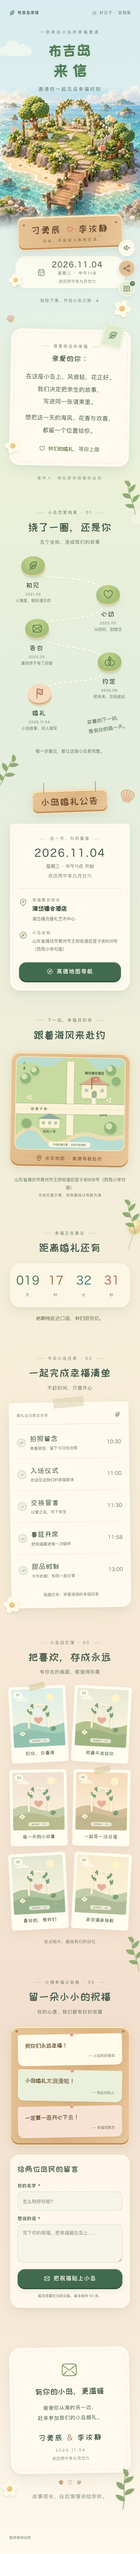
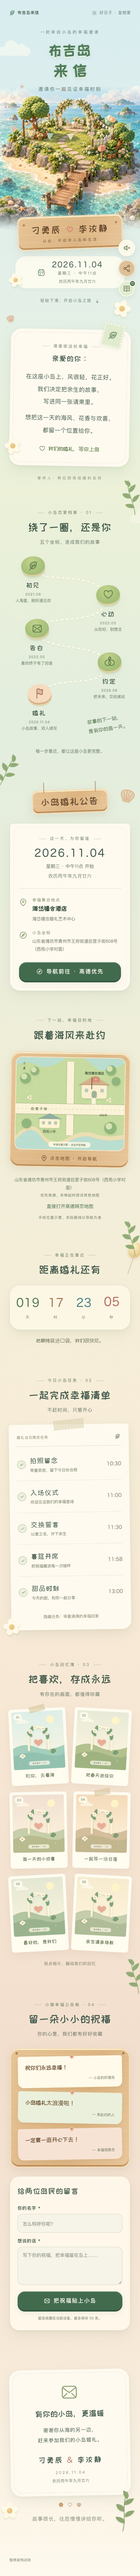
fix: fall back to other map apps before AMap web

diff --git a/index.html b/index.html
@@ -2684,7 +2684,7 @@
             >
               <svg class="icon mini" aria-hidden="true">
                 <use href="#i-compass" /></svg
-              >高德地图导航</a
+              >导航前往 · 高德优先</a
             >
           </div>
         </div>
@@ -2707,7 +2707,7 @@
           class="map-frame wood press reveal"
           data-navigate
           href="https://uri.amap.com/marker?position=118.457025,36.694075&amp;name=%E6%B5%B7%E5%B2%B1%E7%A6%A7%E5%90%88%E9%85%92%E5%BA%97&amp;coordinate=gaode&amp;callnative=1"
-          aria-label="使用高德地图导航至海岱禧合酒店"
+          aria-label="导航至海岱禧合酒店，优先高德，未唤起时尝试其他地图"
         >
           <img
             id="location-map"
@@ -2718,12 +2718,19 @@
           /><span class="map-caption"
             ><svg class="icon mini" aria-hidden="true">
               <use href="#i-pin" /></svg
-            >点击地图 · 高德导航赴约</span
+            >点击地图 · 开启导航</span
           >
         </a>
         <p class="location-address" data-bind="address">
           山东省潍坊市青州市王府街道后营子街808号（西苑小学对面）
         </p>
+        <p class="location-note">优先高德，未唤起时尝试其他地图</p>
+        <a
+          class="text-btn press"
+          data-web-map
+          href="https://uri.amap.com/marker?position=118.457025,36.694075&amp;coordinate=gaode&amp;callnative=0"
+          >直接打开高德网页地图</a
+        >
         <p class="location-note">手绘位置示意，实际路线以导航为准</p>
         <svg class="cross-sprig" aria-hidden="true">
           <use href="#i-sprig" />
@@ -3344,11 +3351,14 @@
           btn.addEventListener("click", () => openPhoto(i));
           $("#photo-grid").append(btn);
         });
-        // 高德直达：移动端点击即调用对应 App 协议；桌面仍打开高德网页地图。
-        // 本示例坐标为 GCJ-02，dev=0，不再显示地图选择器，也不提供地址复制入口。
+        // 导航优先级：高德 App → 其他地图 App → 高德网页；电脑直接使用高德网页。
+        // H5 无法查询任意 App 是否安装，以下根据唤起后的页面生命周期决定是否继续兜底。
         const { longitude: lng, latitude: lat } = CONFIG;
         const name = encodeURIComponent(CONFIG.venue);
         const addr = encodeURIComponent(CONFIG.address);
+        const destination = encodeURIComponent(
+          `${CONFIG.venue} ${CONFIG.address}`,
+        );
         const isiOS =
           /iPhone|iPad|iPod/i.test(navigator.userAgent) ||
           (navigator.maxTouchPoints > 1 &&
@@ -3356,6 +3366,20 @@
         const amapAppURL = `${isiOS ? "iosamap" : "androidamap"}://navi?sourceApplication=bujiWedding&poiname=${name}&lat=${lat}&lon=${lng}&dev=0&style=2`;
         const webMap = `https://uri.amap.com/marker?position=${lng},${lat}&name=${name}&content=${addr}&coordinate=gaode&callnative=0`;
         const webRoute = `https://uri.amap.com/navigation?to=${lng},${lat},${name}&mode=car&policy=1&src=buji_wedding&coordinate=gaode&callnative=0`;
+        // 安卓通过通用 geo 协议交给系统默认地图；多款 App 可处理时由系统选择。
+        // 使用地址搜索而非将 GCJ-02 坐标强塞给所有 App，避免不同地图坐标系造成偏移。
+        const systemGeoURL = `geo:0,0?q=${destination}`;
+        // iOS 没有通用的已安装地图查询能力，依次尝试系统地图及常见地图。
+        // 百度明确声明 GCJ-02，腾讯使用同一 GCJ-02 坐标；系统地图按完整地址导航。
+        const otherIOSMaps = [
+          `maps://?daddr=${destination}&dirflg=d`,
+          `baidumap://map/direction?origin=${encodeURIComponent("我的位置")}&destination=latlng:${lat},${lng}|name:${name}&coord_type=gcj02&mode=driving&src=webapp.buji_wedding`,
+          `qqmap://map/routeplan?type=drive&to=${name}&tocoord=${lat},${lng}&referer=bujiWedding`,
+        ];
+        const appCandidates = [
+          amapAppURL,
+          ...(isiOS ? otherIOSMaps : [systemGeoURL]),
+        ];
         let cancelNavigationFallback = () => {};
         $$("[data-navigate]").forEach((link) => {
           link.href = isMobile() ? amapAppURL : webMap;
@@ -3366,10 +3390,11 @@
           link.addEventListener("click", () => {
             if (!isMobile()) return;
             cancelNavigationFallback();
-            const startedAt = performance.now();
-            let timer;
-            // App 已打开、出现系统确认框或用户离开页面时取消兜底，避免回来后突然跳转。
+            let timer,
+              index = 1,
+              stopped = false;
             const cancel = () => {
+              stopped = true;
               clearTimeout(timer);
               document.removeEventListener("visibilitychange", onVisibility);
               window.removeEventListener("pagehide", cancel);
@@ -3378,21 +3403,49 @@
             const onVisibility = () => {
               if (document.hidden) cancel();
             };
+            const scheduleNext = () => {
+              const startedAt = performance.now();
+              timer = setTimeout(() => {
+                // 后台恢复、系统确认框造成的长时间暂停不触发后续 App 或网页跳转。
+                if (
+                  stopped ||
+                  document.hidden ||
+                  performance.now() - startedAt > 3500
+                ) {
+                  cancel();
+                  return;
+                }
+                if (index >= appCandidates.length) {
+                  cancel();
+                  window.location.assign(webRoute);
+                  return;
+                }
+                const nextURL = appCandidates[index++];
+                scheduleNext();
+                try {
+                  window.location.assign(nextURL);
+                } catch {
+                  /* 当前协议不支持时，继续下一层兜底。 */
+                }
+              }, 1500);
+            };
             cancelNavigationFallback = cancel;
             document.addEventListener("visibilitychange", onVisibility);
             window.addEventListener("pagehide", cancel, { once: true });
             window.addEventListener("blur", cancel, { once: true });
-            timer = setTimeout(() => {
-              cancel();
-              if (!document.hidden && performance.now() - startedAt < 3500) {
-                window.location.assign(webRoute);
-              }
-            }, 1800);
-            if (/MicroMessenger/i.test(navigator.userAgent)) {
-              toast("若未打开高德，请点右上角在浏览器中打开");
-            }
-            // 不阻止默认事件，保持真实链接点击的用户手势，交由手机唤起高德。
+            scheduleNext();
+            if (/MicroMessenger/i.test(navigator.userAgent))
+              toast("若地图未打开，可点下方网页地图，或从浏览器打开");
+            // 首次保持原生链接的真实点击手势，不额外弹出自制地图选择器。
           });
+        });
+        $$("[data-web-map]").forEach((link) => {
+          link.href = isMobile() ? webRoute : webMap;
+          if (!isMobile()) {
+            link.target = "_blank";
+            link.rel = "noopener noreferrer";
+          }
+          link.addEventListener("click", () => cancelNavigationFallback());
         });
         let lastFocus = null,
           activeDialog = null;

diff --git a/README.md b/README.md
@@ -34,7 +34,7 @@
 - 木质按钮按压反馈、模块入场、云朵彩旗与低密度粒子、有限幅度视差、昼夜色调长卷渐变。
 - 低配置设备 / 省流量降低粒子数；系统减少动态效果与页尾动效暂停开关。
 - 草地点击彩蛋、十枚模块贴纸收集、本机图鉴保存。
-- 婚礼信息、手机点击直接唤起高德 App、桌面高德网页地图；唤起受限时兜底到高德网页路线，不显示地图选择器。
+- 婚礼信息、手机优先唤起高德 App，未唤起时尝试其他地图，最后兜底高德网页；桌面直接打开高德网页。
 - 北京时间倒计时；婚期到达自动切换祝福文案。
 - 六图相册、磨砂大图弹窗、左右滑动、弹窗内鼠标滚轮、按钮及方向键切换，Escape 关闭。
 - 祝福输入校验、纯文本安全显示、贴板动画、最多 50 条本机留言持久化。
@@ -66,9 +66,16 @@
 
 ## 地图与留言说明
 
-地图为原创静态手绘位置示意，不加载重型地图 SDK。导航按钮和地图卡片共用高德直达链接：iPhone 使用 `iosamap://`，Android 使用 `androidamap://`；无地图选择器和地址复制入口。App 成功唤起、弹出系统确认或页面进入后台时，会取消网页兜底跳转，避免用户返回后突然切页。微信等浏览器可能限制 App 协议，此时提示从浏览器打开，并可兜底至高德网页路线。
+地图为原创静态手绘位置示意，不加载重型地图 SDK。导航按钮和地图卡片均优先调用高德：iPhone 使用 `iosamap://`，Android 使用 `androidamap://`。
 
-给定坐标在代码中按 GCJ-02 处理，调用高德时 `dev=0`。如原始坐标属于其他坐标系，应在正式使用前确认并转换；手绘地图不表示精确测绘比例。
+- 安卓未唤起高德时，尝试通用 `geo:` 地址搜索，由系统默认地图处理；有多个处理程序时，系统可能提供选择。
+- iPhone 未唤起高德时，依次尝试系统地图、百度地图、腾讯地图。
+- 后续尝试仍未唤起时，打开高德网页路线；电脑端始终直接打开高德网页。
+- 地图下方保留“直接打开高德网页地图”入口，点击会取消正在等待的 App 兜底。
+
+网页无法可靠读取手机已安装地图列表，页面离开或失焦仅作为停止后续跳转的信号，不会宣称已检测到某款 App。浏览器可能阻止延迟发起的 App 调用，尤其是微信内置浏览器；此时可直接使用网页入口，或从系统浏览器打开。App 唤起、系统确认或页面进入后台时，会取消后续尝试，避免用户返回后突然切页。没有新增自制地图选择器，也没有恢复地址复制入口。
+
+给定坐标在代码中按 GCJ-02 处理，调用高德时 `dev=0`，百度明确传入 `coord_type=gcj02`。系统地图和安卓通用地图使用完整地址查询，避免向所有地图强行传入同一种坐标。手绘地图不表示精确测绘比例。
 
 祝福当前仅存储在访客设备的 localStorage，其他访客无法看到彼此的新留言。多人共享留言需另接服务端；本单文件不会伪装成已经连接了数据库。
 
